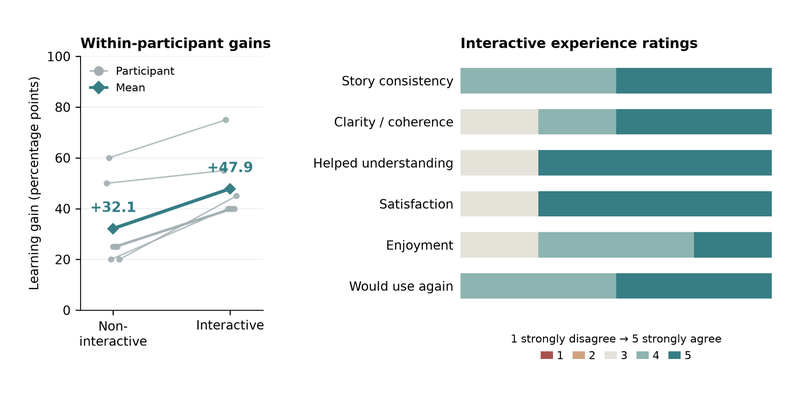
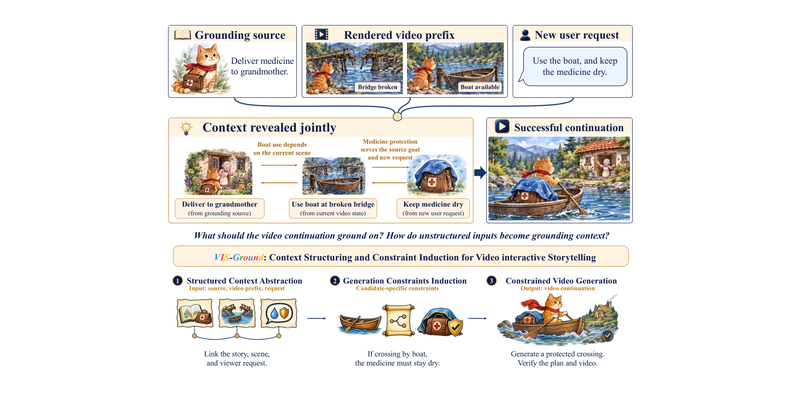
Use abstract teaser figures, disable dark mode, link publication titles

diff --git a/_sass/_custom.scss b/_sass/_custom.scss
@@ -196,9 +196,20 @@ html[data-theme="dark"] .profile img {
 }
 
 .publications .preview {
-  max-height: 230px;
-  margin: 0 auto;
+  aspect-ratio: 2 / 1;
+  object-fit: contain;
   background: #ffffff;
+}
+
+.publications .title a {
+  color: inherit;
+  text-decoration: none;
+}
+
+.publications .title a:hover {
+  color: var(--global-theme-color);
+  text-decoration: underline;
+  text-underline-offset: 0.16em;
 }
 
 html[data-theme="dark"] .publications .preview-link {
